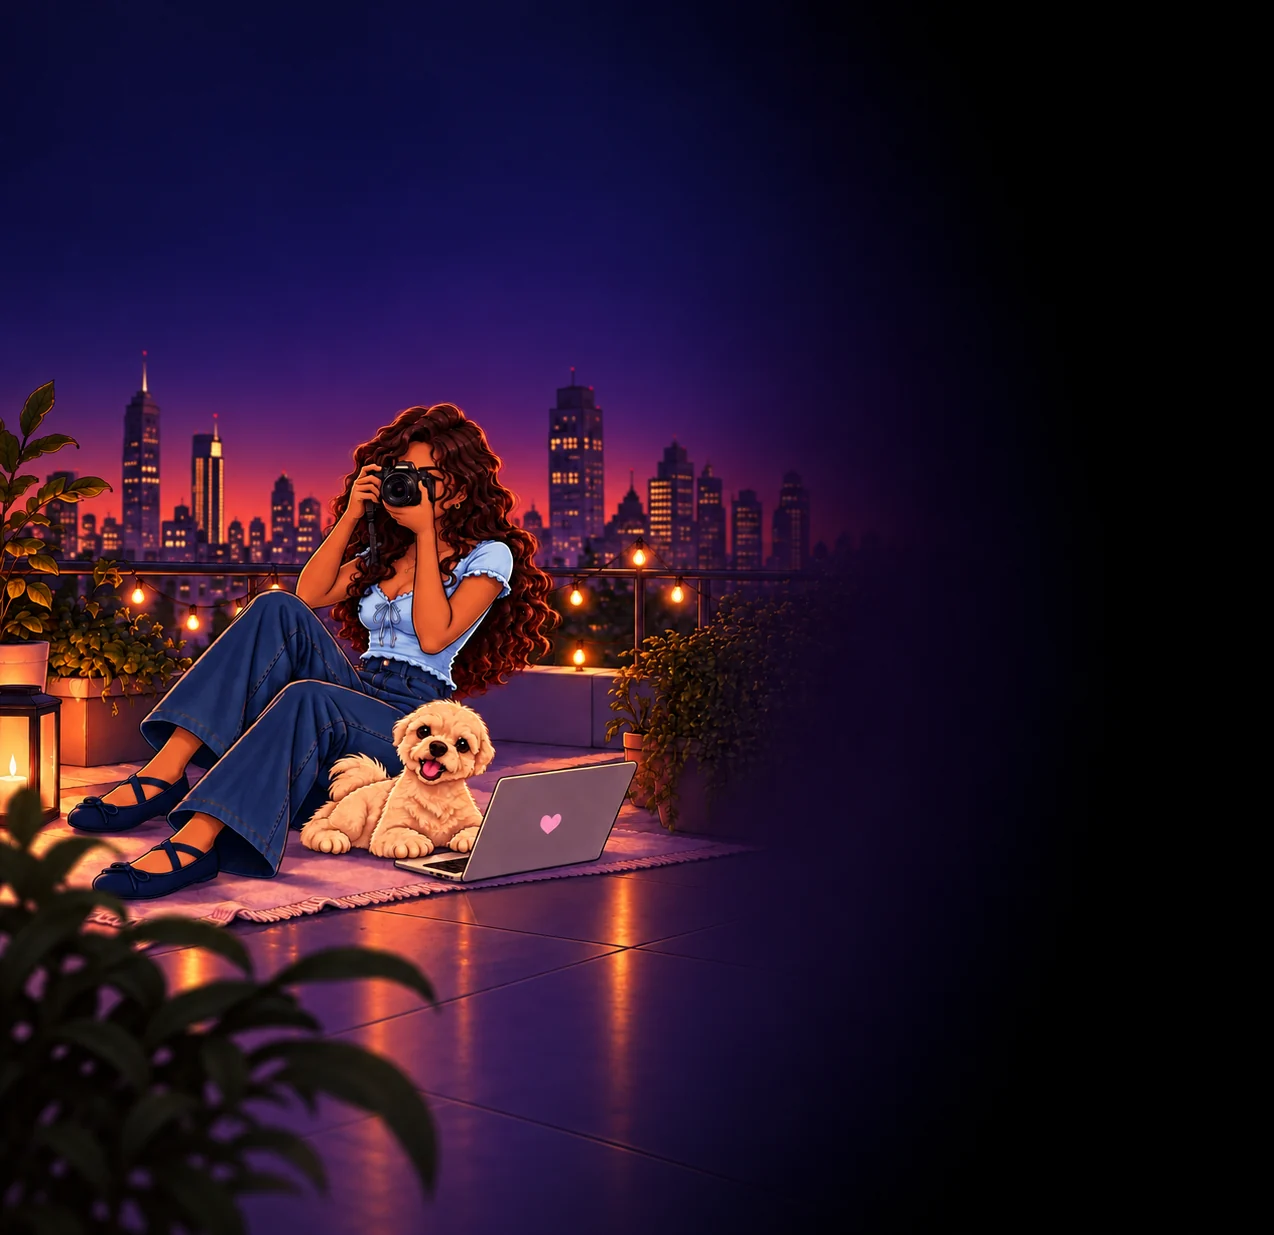
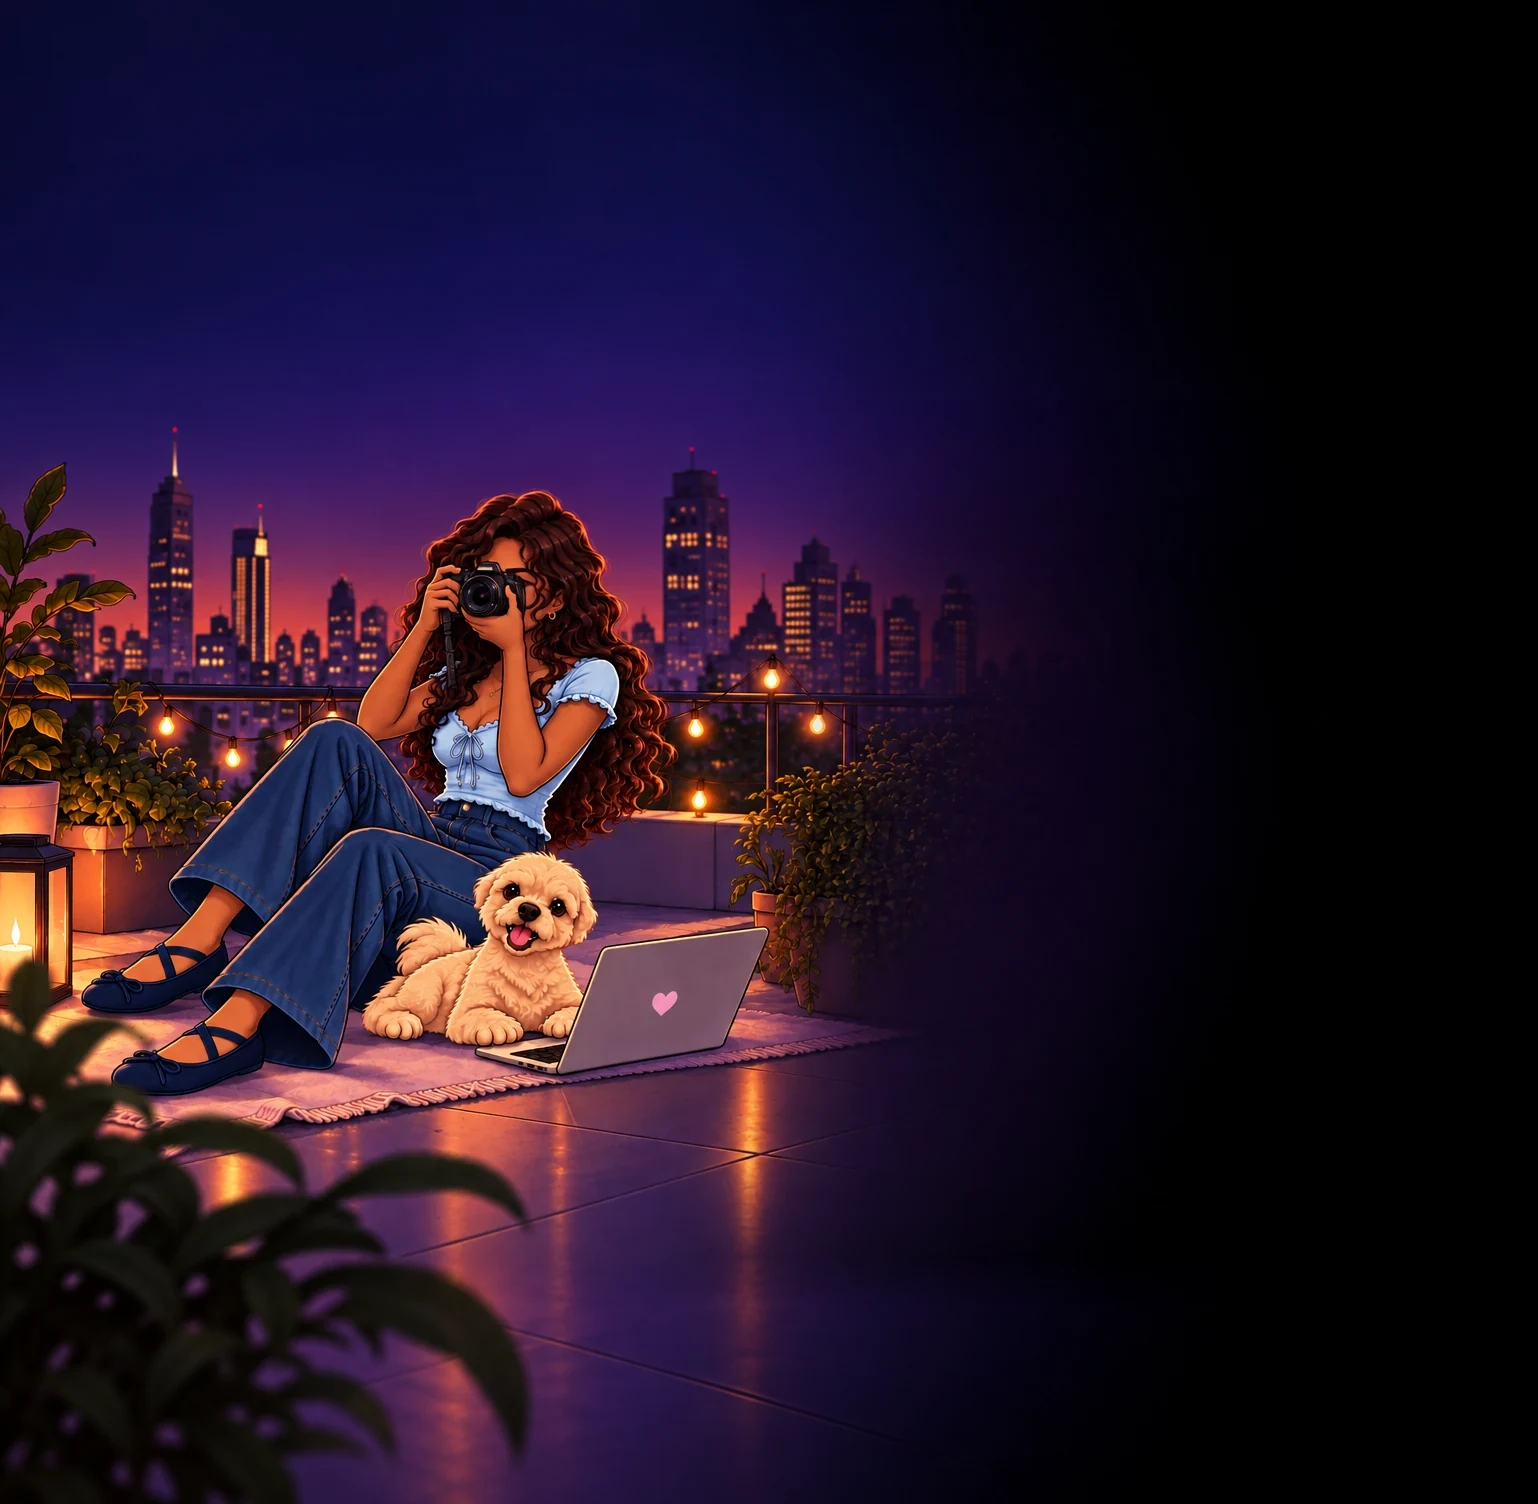
Fix vertical-layout glitch after resize; restore sharpness by compositing original picture into the extended scene
Claude-Session: https://claude.ai/code/session_01Jc4rhmcf6FhnAN9NK1om5D

diff --git a/index.html b/index.html
@@ -479,7 +479,7 @@ footer{margin-top:40px;padding:34px 16px 0}
 .hero::after{content:"";position:absolute;left:0;right:0;top:0;bottom:0;z-index:1;pointer-events:none;background:linear-gradient(180deg,rgba(0,0,0,0) 41vw,rgba(0,0,0,.06) 54.0vw,rgba(0,0,0,.25) 67.0vw,rgba(0,0,0,.58) 77.4vw,rgba(0,0,0,.86) 86.8vw,#000 93vw)}
 }@media (max-width:700px),(max-aspect-ratio:103/100){.hero h1 .slider{width:100%!important}.hero h1 .ln.rot{font-size:min(16.4vw,86px)}.hero{padding-bottom:44px!important}.heroin .sub{margin-top:8px}}
 @media (max-width:700px),(max-aspect-ratio:103/100){.hero h1 .ln,.hero h1 .name,.heroin .sub{text-align:center}.hero h1 .name{margin-left:0}.hero h1 .ln.rot{justify-content:center}.hero h1 .track span{justify-content:center!important}.hero h1 .slider{margin:0 auto}.cta{justify-content:center}}
-@media (min-width:701px) and (min-aspect-ratio:16/9){.heroin{top:max(calc(50.8svh - var(--u)*416*var(--hk,1)),calc(var(--u)*72 - var(--u)*99*var(--hk,1)))!important;transform-origin:calc(var(--u)*975) 0!important;transform:scale(var(--hk,1))!important}}@media (min-width:701px) and (min-aspect-ratio:1031/1000) and (max-aspect-ratio:15999/9000){.heroin{transform-origin:calc(var(--u)*975) 50%!important;transform:scale(var(--hw,1))!important}}body.go .flash i{animation-play-state:running}.scnx{display:none!important}@media (min-width:701px) and (min-aspect-ratio:1031/1000){.scn:not(.scnx){display:none!important}.scn.scnx{display:block!important;left:calc(var(--u)*0.34);top:calc(var(--u)*-280.45);width:calc(var(--u)*1339.17);height:calc(var(--u)*1309.78);clip-path:inset(max(0px,calc(var(--u)*280.45 - var(--off))) 0 max(0px,calc(var(--u)*210.33 - var(--off))) 0);-webkit-mask-image:linear-gradient(transparent 0,#000 3%,#000 82%,transparent 100%),linear-gradient(90deg,#000 0,rgba(0,0,0,1.000) 14%,rgba(0,0,0,0.988) 20%,rgba(0,0,0,0.953) 26%,rgba(0,0,0,0.896) 32%,rgba(0,0,0,0.820) 38%,rgba(0,0,0,0.729) 44%,rgba(0,0,0,0.626) 50%,rgba(0,0,0,0.518) 56%,rgba(0,0,0,0.409) 62%,rgba(0,0,0,0.304) 68%,rgba(0,0,0,0.209) 74%,rgba(0,0,0,0.128) 80%,rgba(0,0,0,0.064) 86%,rgba(0,0,0,0.021) 92%,rgba(0,0,0,0.001) 98%);-webkit-mask-composite:source-in;mask-image:linear-gradient(transparent 0,#000 3%,#000 82%,transparent 100%),linear-gradient(90deg,#000 0,rgba(0,0,0,1.000) 14%,rgba(0,0,0,0.988) 20%,rgba(0,0,0,0.953) 26%,rgba(0,0,0,0.896) 32%,rgba(0,0,0,0.820) 38%,rgba(0,0,0,0.729) 44%,rgba(0,0,0,0.626) 50%,rgba(0,0,0,0.518) 56%,rgba(0,0,0,0.409) 62%,rgba(0,0,0,0.304) 68%,rgba(0,0,0,0.209) 74%,rgba(0,0,0,0.128) 80%,rgba(0,0,0,0.064) 86%,rgba(0,0,0,0.021) 92%,rgba(0,0,0,0.001) 98%);mask-composite:intersect}.dl{background-image:url(media/scene2b.webp)}}.sg{opacity:0}.sg.rdy{opacity:1;transition:opacity .35s ease-out}</style>
+@media (min-width:701px) and (min-aspect-ratio:16/9){.heroin{top:max(calc(50.8svh - var(--u)*416*var(--hk,1)),calc(var(--u)*72 - var(--u)*99*var(--hk,1)))!important;transform-origin:calc(var(--u)*975) 0!important;transform:scale(var(--hk,1))!important}}@media (min-width:701px) and (min-aspect-ratio:1031/1000) and (max-aspect-ratio:15999/9000){.heroin{transform-origin:calc(var(--u)*975) 50%!important;transform:scale(var(--hw,1))!important}}body.go .flash i{animation-play-state:running}.scnx{display:none!important}@media (min-width:701px) and (min-aspect-ratio:1031/1000){.scn:not(.scnx){display:none!important}.scn.scnx{display:block!important;left:calc(var(--u)*0.34);top:calc(var(--u)*-280.43);width:calc(var(--u)*1339.35);height:calc(var(--u)*1309.71);clip-path:inset(max(0px,calc(var(--u)*280.45 - var(--off))) 0 max(0px,calc(var(--u)*210.33 - var(--off))) 0);-webkit-mask-image:linear-gradient(transparent 0,#000 3%,#000 82%,transparent 100%),linear-gradient(90deg,#000 0,rgba(0,0,0,1.000) 14%,rgba(0,0,0,0.988) 20%,rgba(0,0,0,0.953) 26%,rgba(0,0,0,0.896) 32%,rgba(0,0,0,0.820) 38%,rgba(0,0,0,0.729) 44%,rgba(0,0,0,0.626) 50%,rgba(0,0,0,0.518) 56%,rgba(0,0,0,0.409) 62%,rgba(0,0,0,0.304) 68%,rgba(0,0,0,0.209) 74%,rgba(0,0,0,0.128) 80%,rgba(0,0,0,0.064) 86%,rgba(0,0,0,0.021) 92%,rgba(0,0,0,0.001) 98%);-webkit-mask-composite:source-in;mask-image:linear-gradient(transparent 0,#000 3%,#000 82%,transparent 100%),linear-gradient(90deg,#000 0,rgba(0,0,0,1.000) 14%,rgba(0,0,0,0.988) 20%,rgba(0,0,0,0.953) 26%,rgba(0,0,0,0.896) 32%,rgba(0,0,0,0.820) 38%,rgba(0,0,0,0.729) 44%,rgba(0,0,0,0.626) 50%,rgba(0,0,0,0.518) 56%,rgba(0,0,0,0.409) 62%,rgba(0,0,0,0.304) 68%,rgba(0,0,0,0.209) 74%,rgba(0,0,0,0.128) 80%,rgba(0,0,0,0.064) 86%,rgba(0,0,0,0.021) 92%,rgba(0,0,0,0.001) 98%);mask-composite:intersect}}.sg{opacity:0}.sg.rdy{opacity:1;transition:opacity .35s ease-out}@media (max-width:700px),(max-aspect-ratio:103/100){.scn.scnx{display:none!important}.scn:not(.scnx){display:block!important}}</style>
 </head>
 <body>
 <div id="bar"></div>
@@ -568,7 +568,7 @@ const $ = s => document.querySelector(s), $$ = s => [...document.querySelectorAl
 const clamp = (v,a,b) => Math.max(a, Math.min(b, v));
 
 /* scene, lights, tail and flash all appear together once the picture is decoded */
-(function(){const sg=document.querySelector('.sg');const wide=matchMedia("(min-width:701px) and (min-aspect-ratio:1031/1000)").matches;const x=document.querySelector('.scnx');if(x&&wide)x.src=x.dataset.src;
+(function(){const sg=document.querySelector('.sg');const wide=matchMedia("(min-width:701px) and (min-aspect-ratio:1031/1000)").matches;const x=document.querySelector('.scnx');if(x)x.src=x.dataset.src;
 const im=wide&&x?x:document.querySelector('.scn');let d=0;const go=()=>{if(d)return;d=1;requestAnimationFrame(()=>{sg&&sg.classList.add('rdy');document.body.classList.add('go');});};
 const ok=()=>im&&im.decode?im.decode().then(go,go):go();
 if(!im)go();else if(im.complete&&im.naturalWidth)ok();else{im.addEventListener('load',ok);im.addEventListener('error',go);}
